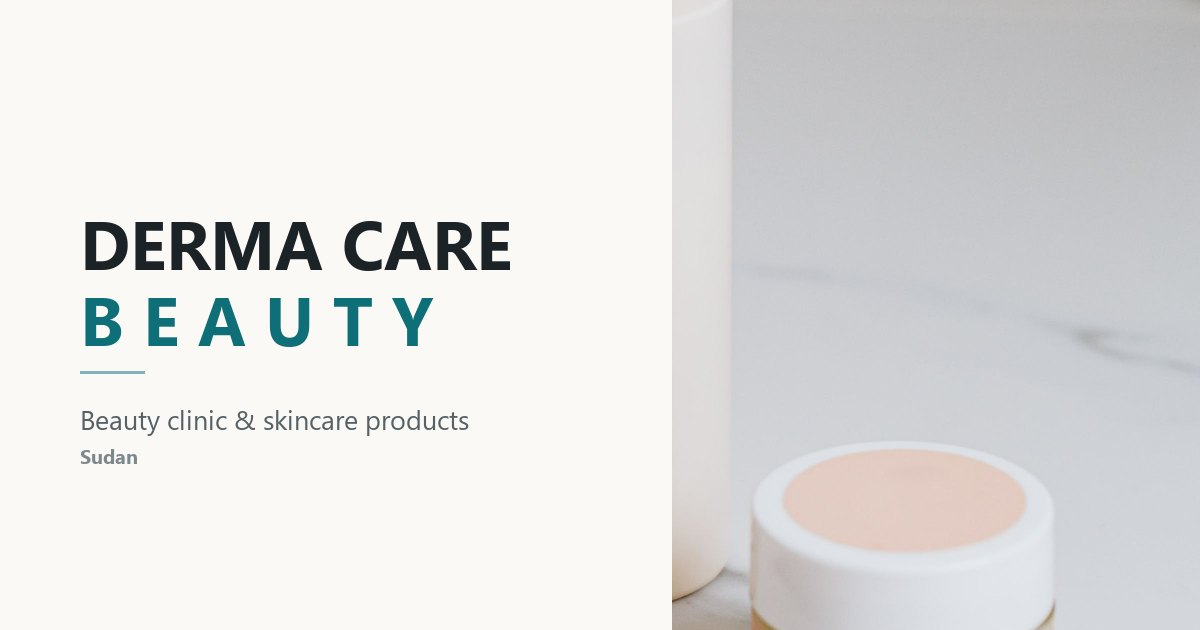
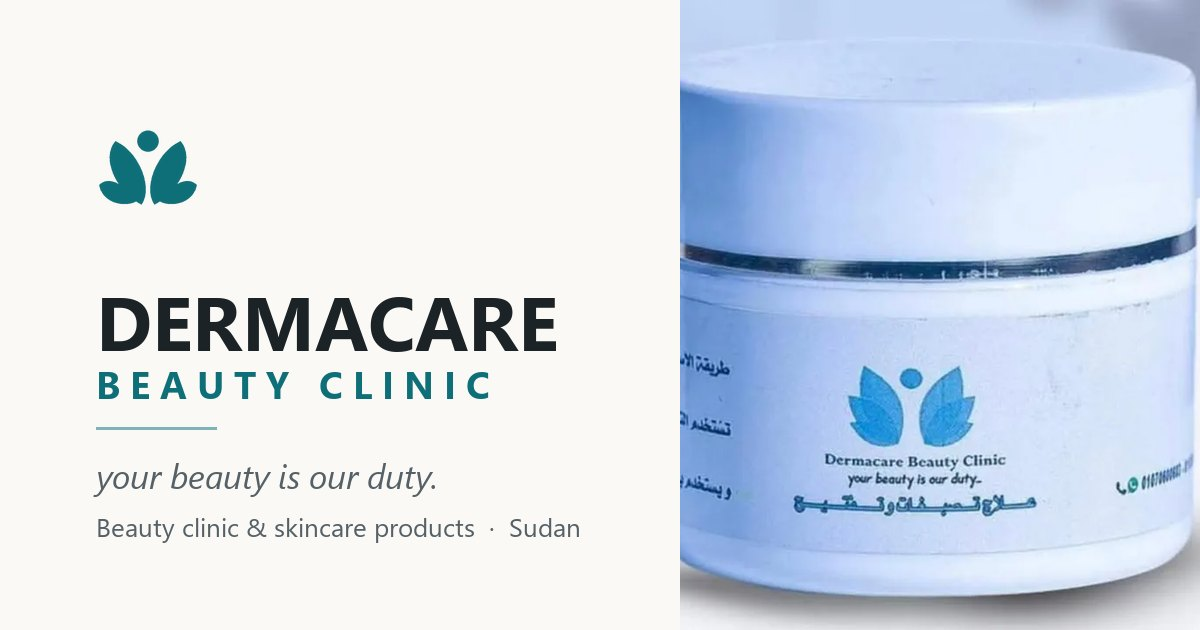
feat: add the brand mark, WhatsApp ordering and the real contact number
The leaf-and-head mark printed on the packaging is now redrawn as vectors so
it stays crisp in the header, the footer and the favicon, and the share card
carries the correct brand name instead of the old placeholder wordmark.

Ordering runs through the verified WhatsApp number: a floating CTA that only
renders once the number is configured, so the page never shows a dead action.

Also fixes a silent responsive bug — `hidden sm:inline-flex` never hid the
header controls, because a plain display utility cannot beat the component's
own `inline-flex`; the phone header was rendering every control at once.

diff --git a/src/components/layout/BrandIcons.tsx b/src/components/layout/BrandIcons.tsx
@@ -11,6 +11,8 @@ const paths = {
     'M9.101 23.691v-7.98H6.627v-3.667h2.474v-1.58c0-4.085 1.848-5.978 5.858-5.978.401 0 .955.042 1.468.103a8.68 8.68 0 0 1 1.141.195v3.325a8.623 8.623 0 0 0-.653-.036 26.805 26.805 0 0 0-.733-.009c-.707 0-1.259.096-1.675.309a1.686 1.686 0 0 0-.679.622c-.258.42-.374.995-.374 1.752v1.297h3.919l-.386 2.103-.287 1.564h-3.246v8.245C19.396 23.238 24 18.179 24 12.044c0-6.627-5.373-12-12-12s-12 5.373-12 12c0 5.628 3.874 10.35 9.101 11.647Z',
   tiktok:
     'M12.525.02c1.31-.02 2.61-.01 3.91-.02.08 1.53.63 3.09 1.75 4.17 1.12 1.11 2.7 1.62 4.24 1.79v4.03c-1.44-.05-2.89-.35-4.2-.97-.57-.26-1.1-.59-1.62-.93-.01 2.92.01 5.84-.02 8.75-.08 1.4-.54 2.79-1.35 3.94-1.31 1.92-3.58 3.17-5.91 3.21-1.43.08-2.86-.31-4.08-1.03-2.02-1.19-3.44-3.37-3.65-5.71-.02-.5-.03-1-.01-1.49.18-1.9 1.12-3.72 2.58-4.96 1.66-1.44 3.98-2.13 6.15-1.72.02 1.48-.04 2.96-.04 4.44-.99-.32-2.15-.23-3.02.37-.63.41-1.11 1.04-1.36 1.75-.21.51-.15 1.07-.14 1.61.24 1.64 1.82 3.02 3.5 2.87 1.12-.01 2.19-.66 2.77-1.61.19-.33.4-.67.41-1.06.1-1.79.06-3.57.07-5.36.01-4.03-.01-8.05.02-12.07z',
+  whatsapp:
+    'M17.472 14.382c-.297-.149-1.758-.867-2.03-.967-.273-.099-.471-.148-.67.15-.197.297-.767.966-.94 1.164-.173.199-.347.223-.644.075-.297-.15-1.255-.463-2.39-1.475-.883-.788-1.48-1.761-1.653-2.059-.173-.297-.018-.458.13-.606.134-.133.298-.347.446-.52.149-.174.198-.298.298-.497.099-.198.05-.371-.025-.52-.075-.149-.669-1.612-.916-2.207-.242-.579-.487-.5-.669-.51a12.8 12.8 0 0 0-.57-.01c-.198 0-.52.074-.792.372-.272.297-1.04 1.016-1.04 2.479 0 1.462 1.065 2.875 1.213 3.074.149.198 2.096 3.2 5.077 4.487.709.306 1.262.489 1.694.625.712.227 1.36.195 1.871.118.571-.085 1.758-.719 2.006-1.413.248-.694.248-1.289.173-1.413-.074-.124-.272-.198-.57-.347m-5.421 7.403h-.004a9.87 9.87 0 0 1-5.031-1.378l-.361-.214-3.741.982.998-3.648-.235-.374a9.86 9.86 0 0 1-1.51-5.26c.001-5.45 4.436-9.884 9.888-9.884 2.64 0 5.122 1.03 6.988 2.898a9.825 9.825 0 0 1 2.893 6.994c-.003 5.45-4.437 9.884-9.885 9.884m8.413-18.297A11.815 11.815 0 0 0 12.05 0C5.495 0 .16 5.335.157 11.892c0 2.096.547 4.142 1.588 5.945L.057 24l6.305-1.654a11.882 11.882 0 0 0 5.683 1.448h.005c6.554 0 11.89-5.335 11.893-11.893A11.821 11.821 0 0 0 20.465 3.488',
   snapchat:
     'M12.206.793c.99 0 4.347.276 5.93 3.821.529 1.193.403 3.219.299 4.847l-.003.06c-.012.18-.022.345-.03.51.075.045.203.09.401.09.3-.016.659-.12 1.033-.301.165-.088.344-.104.464-.104.182 0 .359.029.509.09.45.149.734.479.734.838.015.449-.39.839-1.213 1.168-.089.029-.209.075-.344.119-.45.135-1.139.36-1.333.81-.09.224-.061.524.12.868l.015.015c.06.136 1.526 3.475 4.791 4.014.255.044.435.27.42.509 0 .075-.015.149-.045.225-.24.569-1.273.988-3.146 1.271-.059.091-.12.375-.164.57-.029.179-.074.36-.134.553-.076.271-.27.405-.555.405h-.03c-.135 0-.313-.031-.538-.074-.36-.075-.765-.135-1.273-.135-.3 0-.599.015-.913.074-.6.104-1.123.464-1.723.884-.853.599-1.826 1.288-3.294 1.288-.06 0-.119-.015-.18-.015h-.149c-1.468 0-2.427-.675-3.279-1.288-.599-.42-1.107-.779-1.707-.884-.314-.045-.629-.074-.928-.074-.54 0-.958.089-1.272.149-.211.043-.391.074-.54.074-.374 0-.523-.224-.583-.42-.061-.192-.09-.389-.135-.567-.046-.181-.105-.494-.166-.57-1.918-.222-2.95-.642-3.189-1.226-.031-.063-.052-.15-.055-.225-.015-.243.165-.465.42-.509 3.264-.54 4.73-3.879 4.791-4.02l.016-.029c.18-.345.224-.645.119-.869-.195-.434-.884-.658-1.332-.809-.121-.029-.24-.074-.346-.119-1.107-.435-1.257-.93-1.197-1.273.09-.479.674-.793 1.168-.793.146 0 .27.029.383.074.42.194.789.3 1.104.3.234 0 .384-.06.465-.105l-.046-.569c-.098-1.626-.225-3.651.307-4.837C7.392 1.077 10.739.807 11.727.807l.419-.015h.06z',
 } as const

diff --git a/src/components/primitives/Logo.tsx b/src/components/primitives/Logo.tsx
@@ -8,6 +8,28 @@ type LogoProps = {
 }
 
 /*
+  The brand mark as printed on the packaging: two leaves either side of a
+  raised head. Redrawn as vectors from the product photography — the printed
+  original only exists on a curved, low-resolution label — so it stays crisp
+  at every size and inherits its colour from the surrounding text.
+*/
+export function LogoMark({ className = '' }: { className?: string }) {
+  return (
+    <svg viewBox="2 4 60 52" fill="currentColor" aria-hidden="true" className={className}>
+      <circle cx="32" cy="13" r="6.5" />
+      <g>
+        <path d="M36 52C29 42 37 20 52 13C62 25 49 46 36 52Z" />
+        <path d="M39 50C46 40 56 34 62 40C60 51 47 54 39 50Z" />
+      </g>
+      <g transform="translate(64,0) scale(-1,1)">
+        <path d="M36 52C29 42 37 20 52 13C62 25 49 46 36 52Z" />
+        <path d="M39 50C46 40 56 34 62 40C60 51 47 54 39 50Z" />
+      </g>
+    </svg>
+  )
+}
+
+/*
   Renders the ORIGINAL brand logo when `business.logo.src` is configured.
   Until then it falls back to a typographic wordmark in the brand fonts —
   no logo mark is invented, and no missing-asset request is fired.
@@ -32,16 +54,19 @@ export function Logo({ tone = 'dark', className = '' }: LogoProps) {
   const secondary = tone === 'light' ? 'text-teal-muted' : 'text-teal'
 
   return (
-    <span className={`inline-flex flex-col leading-none ${className}`} aria-label={name}>
-      <span
-        className={`text-[1.0625rem] font-extrabold tracking-[0.02em] sm:text-[1.1875rem] ${primary}`}
-      >
-        {lang === 'ar' ? 'ديرما كير' : 'DERMACARE'}
-      </span>
-      <span
-        className={`mt-1 text-[0.5625rem] font-semibold tracking-[0.42em] uppercase sm:text-[0.625rem] ${secondary}`}
-      >
-        {lang === 'ar' ? 'بيوتي كلينك' : 'Beauty Clinic'}
+    <span className={`inline-flex items-center gap-2.5 ${className}`} aria-label={name}>
+      <LogoMark className={`h-9 w-auto shrink-0 sm:h-10 ${secondary}`} />
+      <span className="inline-flex flex-col leading-none">
+        <span
+          className={`text-[1.0625rem] font-extrabold tracking-[0.02em] sm:text-[1.1875rem] ${primary}`}
+        >
+          {lang === 'ar' ? 'ديرما كير' : 'DERMACARE'}
+        </span>
+        <span
+          className={`mt-1 text-[0.5625rem] font-semibold tracking-[0.42em] uppercase sm:text-[0.625rem] ${secondary}`}
+        >
+          {lang === 'ar' ? 'بيوتي كلينك' : 'Beauty Clinic'}
+        </span>
       </span>
     </span>
   )

diff --git a/src/components/layout/WhatsAppOrder.tsx b/src/components/layout/WhatsAppOrder.tsx
@@ -1,0 +1,33 @@
+import { whatsappLink } from '../../config/business'
+import { useLanguage } from '../../i18n/useLanguage'
+import { BrandIcon } from './BrandIcons'
+
+/*
+  Floating WhatsApp order action. Renders only once a real number is set in
+  `business.contact.whatsapp` — until then `whatsappLink()` returns an empty
+  string and nothing is shown, so no dead CTA ever reaches the page.
+
+  On mobile it clears the bottom navigation pill (56px bar + 8px padding +
+  16px margin) plus the safe-area inset.
+*/
+export function WhatsAppOrder() {
+  const { t } = useLanguage()
+  const href = whatsappLink(t('order.prefill'))
+
+  if (href === '') return null
+
+  return (
+    <a
+      href={href}
+      target="_blank"
+      rel="noopener noreferrer"
+      aria-label={t('order.cta')}
+      className="fixed end-4 bottom-[calc(6.5rem+env(safe-area-inset-bottom))] z-50 inline-flex items-center gap-2 rounded-full bg-teal px-4 py-3 text-sm font-semibold text-white shadow-[0_8px_30px_-6px_rgba(27,35,38,0.45)] transition-colors duration-250 hover:bg-teal-deep focus-visible:outline-2 focus-visible:outline-offset-2 focus-visible:outline-teal md:end-8 md:bottom-8"
+    >
+      <BrandIcon name="whatsapp" className="size-5" />
+      {/* The label collapses to the icon on narrow screens; the accessible
+          name comes from `aria-label` so it never disappears. */}
+      <span className="hidden sm:inline">{t('order.cta')}</span>
+    </a>
+  )
+}

diff --git a/src/components/layout/Header.tsx b/src/components/layout/Header.tsx
@@ -67,12 +67,17 @@ export function Header() {
         </nav>
 
         <div className="flex items-center gap-3">
-          <LanguageSwitcher className="hidden sm:inline-flex" />
+          {/* `max-sm:hidden`, not `hidden sm:inline-flex`: both components
+              already carry `inline-flex`, and two plain display utilities on
+              one element are decided by stylesheet order — `inline-flex` wins,
+              so the phone header would show every control at once. A variant
+              always outranks a plain utility, so this hides reliably. */}
+          <LanguageSwitcher className="max-sm:hidden" />
           <ButtonLink
             href={shopHref}
             target={isExternalShop ? '_blank' : undefined}
             rel={isExternalShop ? 'noopener noreferrer' : undefined}
-            className="hidden sm:inline-flex"
+            className="max-sm:hidden"
           >
             {t('nav.shopNow')}
             <ArrowUpRight

diff --git a/src/i18n/dictionary.ts b/src/i18n/dictionary.ts
@@ -286,6 +286,13 @@ export const dictionary = {
     en: 'Hello Dermacare Beauty Clinic, I have a question about skincare.',
   },
 
+  // ── Floating WhatsApp order button ────────────────────────────────────────
+  'order.cta': { ar: 'اطلبي عبر واتساب', en: 'Order on WhatsApp' },
+  'order.prefill': {
+    ar: 'مرحباً ديرما كير بيوتي كلينك، أرغب في الطلب.',
+    en: 'Hello Dermacare Beauty Clinic, I would like to place an order.',
+  },
+
   // ── Footer ────────────────────────────────────────────────────────────────
   'footer.tagline': {
     ar: 'عيادة تجميل ومنتجات عناية بالبشرة في السودان.',

diff --git a/src/App.tsx b/src/App.tsx
@@ -1,6 +1,7 @@
 import { Footer } from './components/layout/Footer'
 import { Header } from './components/layout/Header'
 import { MobileNav } from './components/layout/MobileNav'
+import { WhatsAppOrder } from './components/layout/WhatsAppOrder'
 import { SeoHead } from './components/SeoHead'
 import { About } from './components/sections/About'
 import { BrandIntro } from './components/sections/BrandIntro'
@@ -38,6 +39,7 @@ export default function App() {
       </main>
 
       <Footer />
+      <WhatsAppOrder />
       <MobileNav />
     </>
   )

diff --git a/src/config/business.ts b/src/config/business.ts
@@ -70,9 +70,9 @@ export const business: BusinessConfig = {
   /** Verified contact channels only. Empty string = hidden in the UI. */
   contact: {
     /** International format, digits only, no '+'. Example: '2499XXXXXXX'. */
-    whatsapp: '',
+    whatsapp: '249912943428',
     /** Display + tel: link. Example: '+249 9XX XXX XXX'. */
-    phone: '',
+    phone: '+249 91 294 3428',
     email: '',
     address: { ar: '', en: '' } satisfies L10n,
     hours: { ar: '', en: '' } satisfies L10n,
